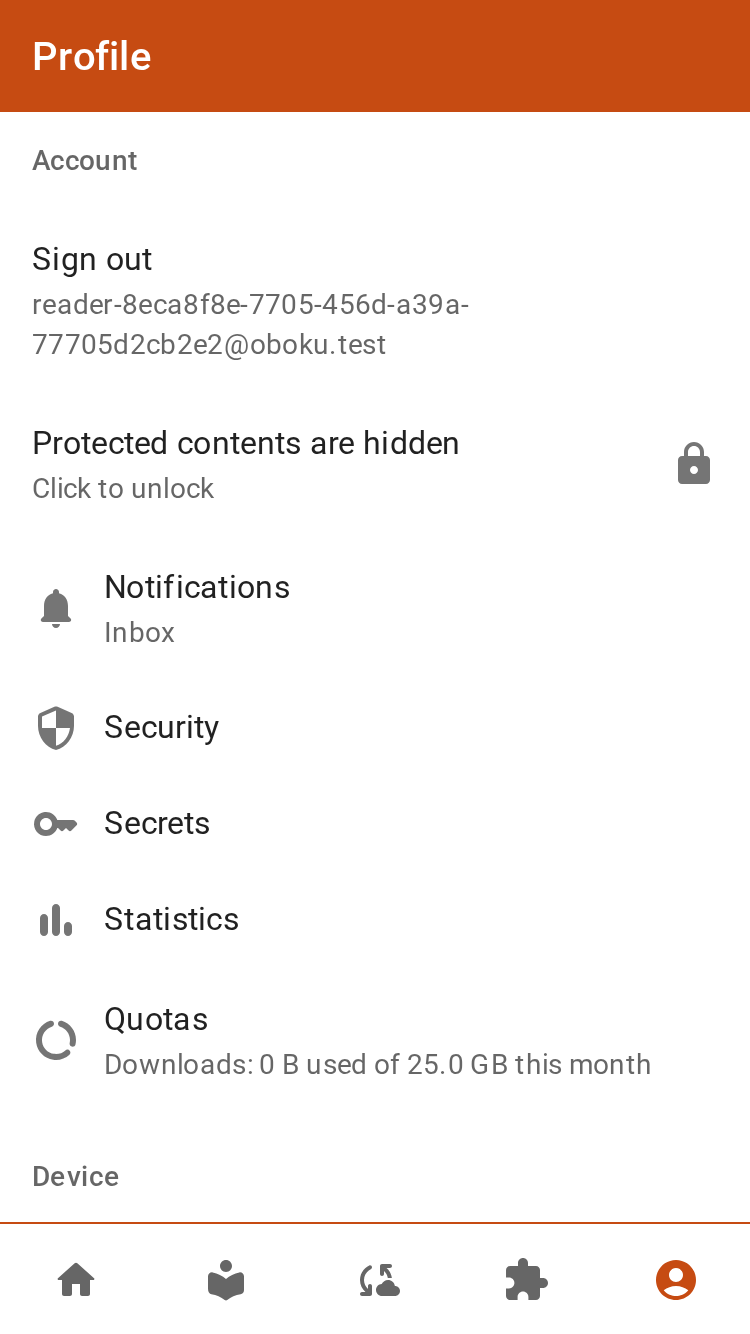
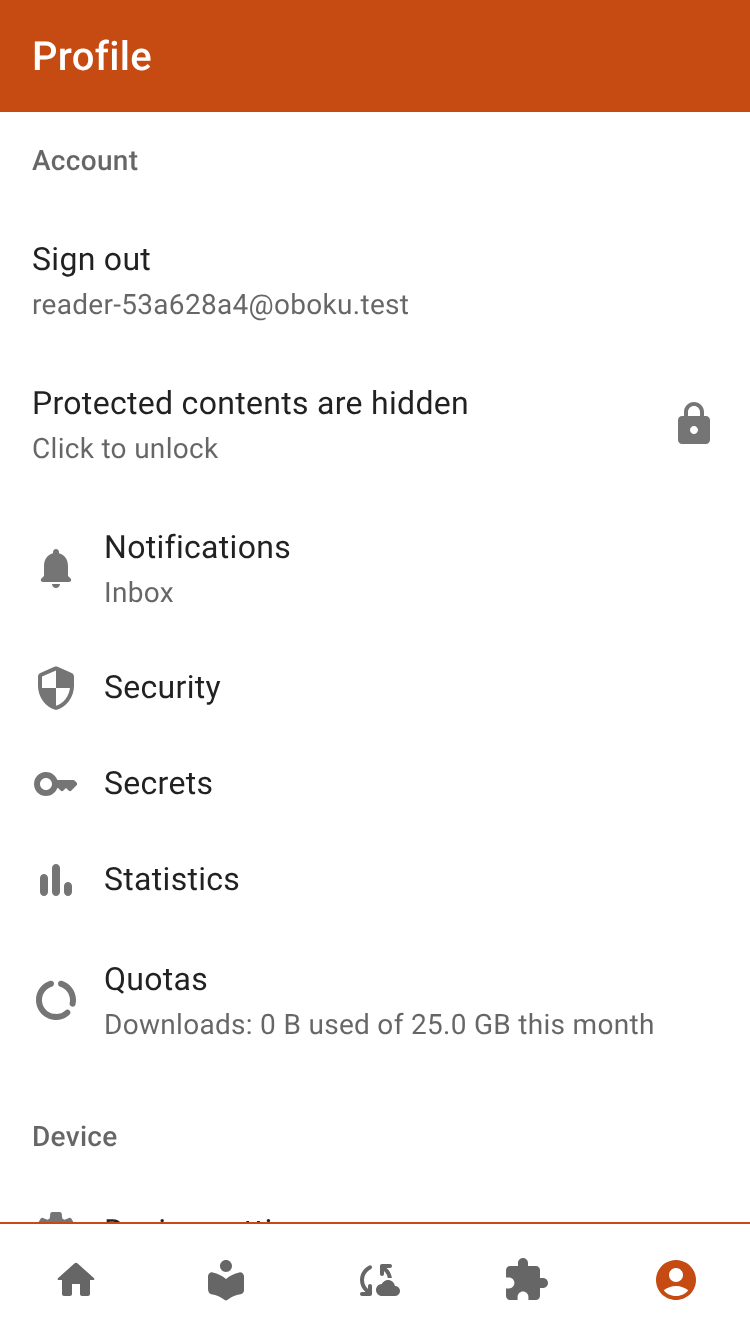
test(e2e): shorten the e-mail of the accounts the tests sign up
The address carried a full UUID, which the profile screenshot showed on
two lines. Eight random hex characters keep the addresses of one stack
unique and fit on one line.

Claude-Session: https://claude.ai/code/session_01BvSDyHDR2VFH8ziSVjcpWJ

diff --git a/apps/e2e/src/fixtures.ts b/apps/e2e/src/fixtures.ts
@@ -1,4 +1,4 @@
-import { randomUUID } from "node:crypto"
+import { randomBytes } from "node:crypto"
 import { test as base } from "@playwright/test"
 import { adminGenerateSignUpLink } from "@oboku/shared"
 import { signInAsAdmin } from "./admin"
@@ -9,6 +9,14 @@ export type SignUpInvitation = {
   signUpLink: string
 }
 
+/**
+ * Unique among the accounts of one stack, and short enough for the profile
+ * screenshot to show it on one line.
+ */
+function newReaderEmail() {
+  return `reader-${randomBytes(4).toString("hex")}@oboku.test`
+}
+
 export const test = base.extend<{ signUpInvitation: SignUpInvitation }>({
   // biome-ignore lint/correctness/noEmptyPattern: Playwright reads the fixtures a fixture depends on from this destructuring.
   signUpInvitation: async function inviteNewReader({}, use) {
@@ -16,7 +24,7 @@ export const test = base.extend<{ signUpInvitation: SignUpInvitation }>({
       data: { signUpLink },
     } = await adminGenerateSignUpLink({
       client: await signInAsAdmin(),
-      body: { email: `reader-${randomUUID()}@oboku.test` },
+      body: { email: newReaderEmail() },
     })
 
     await use({ password: "e2e-password", signUpLink })
